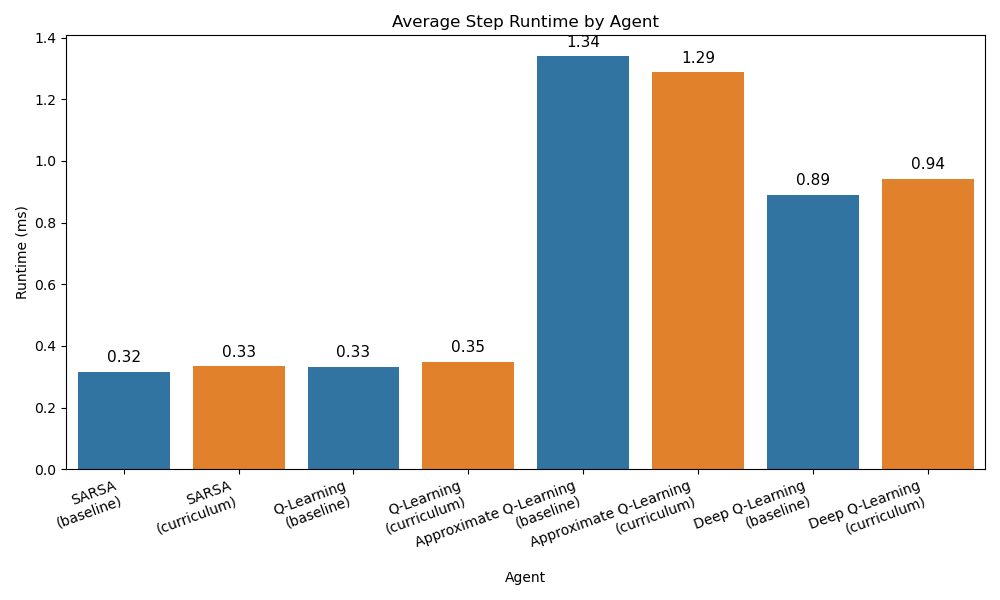
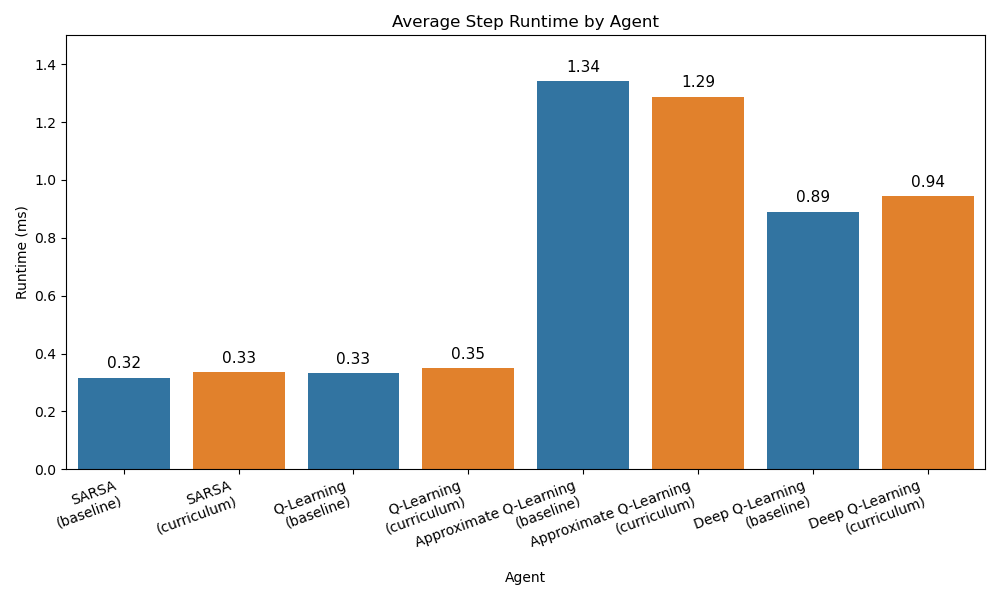
Fixed a plot and README.md

diff --git a/source/6_analyze_results.py b/source/6_analyze_results.py
@@ -111,8 +111,9 @@ ax = sns.barplot(
     ci=None)
 plt.title("Average Step Runtime by Agent")
 plt.xlabel("Agent")
-plt.ylabel("Runtime (ms)")
 plt.xticks(rotation=20, ha="right")
+plt.ylabel("Runtime (ms)")
+plt.ylim(0, 1.5)
 plt.subplots_adjust(bottom=0.15)
 for p in plt.gca().patches:
     plt.gca().annotate(

diff --git a/README.md b/README.md
@@ -5,7 +5,7 @@
 **Date:** 2024-05-01
 
 ## Abstract
-In this research project, we trained a series of Reinforcement Learning (RL) agents to play the game of Pac-Man using curriculum learning (CL). First, we created a custom version of the Pac-Man game to simplify the environment's dynamics. Next, we trained four RL agents with and without CL. Then, we ran each treatment for 100 episodes and analyzed the results. Our analysis revealed that CL improved the performance of the SARSA agent but failed to improve the other three agents. 
+In this research project, we trained a series of Reinforcement Learning (RL) agents to play the game of Pac-Man using curriculum learning (CL). First, we created a custom version of the Pac-Man game to simplify the environment's dynamics. Next, we trained four RL agents with and without CL. Then, we ran each treatment for 100 episodes and analyzed the results. Our analysis revealed that CL improved the performance of the SARSA and Q-learning agents but failed to improve the Approximate Q-Learning and Deep Q-learning agents.
 
 ## Documents
  - [Research Paper](documents/paper.pdf)
